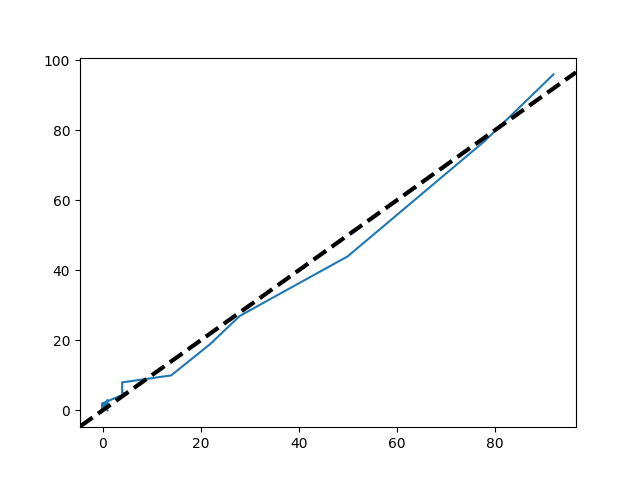
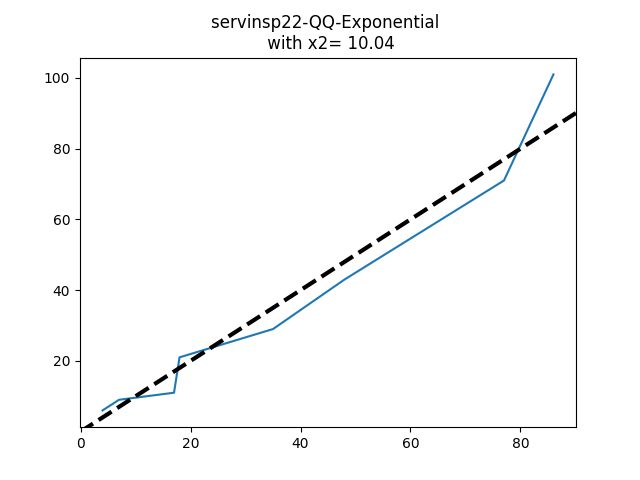
autocorrelation+cleanup

diff --git a/modeling.py b/modeling.py
@@ -43,13 +43,18 @@ def calculateX2(observed,expeted,size):
         x2 = x2 + pow((observed[i]-expeted[i]),2)/expeted[i];
     return round(x2,2);
 
-a=71;
-c=17;
+a=5 ;
+c=7;
 m=pow(2,8)+1;
 digits=[0]*600000;
-digits[0]=7;
+digits[0]=31;
 counter=0;
-
+# a=5 ;
+# c=7;
+# m=pow(2,8)+1;
+# digits=[0]*600000;
+# digits[0]=31;
+# counter=0;
 def generateRandomNumbers():
 
     global a,c,m,digits,counter;
@@ -60,39 +65,70 @@ def generateRandomNumbers():
         generatedNums[i-1]=digits[counter*300+i]
       
     for i in range(0,300):
-        generatedNums[i] = round(generatedNums[i]/m,6);
+        generatedNums[i] = round(generatedNums[i]/m,8);
     counter = counter + 1;
 
     return generatedNums;
 
-def testForUnifomity(sample):
+def testForUnifomity(sample,bins):
     # test for 30 bins
-    observedBins=30*[0];
+    observedBins=bins*[0];
     minn=min(sample);
     maxx=max(sample);
-    width=(maxx-minn)/30;
-    for i in range (0,30):
+    width=(maxx-minn)/bins;
+    for i in range (0,bins):
         for j in range(0,300):
             if sample[j] >= i * width + minn and sample[j]< (i+1) * width + minn:
                 observedBins[i] = observedBins[i] + 1;
     
-    expectedBins=30*[10];
-    observedBins[29] = observedBins[29] + 300-sum(observedBins);
-    print('Generated R:'+str(observedBins)+'\nExpected R:'+str(expectedBins));
-    print('For 30 Bins X2 of generated numbers(R), compare to uniform distribution is '+str(calculateX2(observedBins, expectedBins,30)));
+    expectedBins=bins*[300/bins];
+    observedBins[bins-1] = observedBins[bins-1] + 300-sum(observedBins);
+    print('For '+str(bins)+' Bins');
+    print('Generated R:\n'+str(observedBins)+'\nExpected R:\n'+str(expectedBins));
+    print('X2 of generated numbers, compare to uniform distribution is '+str(calculateX2(observedBins, expectedBins,bins)));
+    print('------------');
 
     return observedBins;
+
+def testAutoCorrelation(sample, m,i):
+    averagePhi=0;
+    k=0;
+    while (k+1)*m < 300:
+        averagePhi = averagePhi + sample[k*m+i]*sample[(k+1)*m+i];
+        k = k + 1;
+        
+    averagePhi = averagePhi / (1 + k) - 0.25;
+    sigmaPhi=sqrt(13*k+7).real/(12*(k+1));
+    print('testAutoCorrelation for (m= '+str(m)+',i='+str(i)+'):  '+ str(round(averagePhi/sigmaPhi,4)));
 
 def plotQQExp(data,name):
 
     generatedSample= [0]*300;
     landa= 1/np.mean(data);
     randomNums = generateRandomNumbers();
-    testForUnifomity(randomNums);
+    print(name+'\n---------------------------------');
+    print('Generated Random Numbers:');
+    print(randomNums);
+    print('------------');
+    print('Testing for Uniformity:');
+    print('------------');
+    testForUnifomity(randomNums,10);
+    testForUnifomity(randomNums,30);
+    testForUnifomity(randomNums,50);
+    print('Testing for AutoCorrelation:');
+    print('------------');
+    testAutoCorrelation(randomNums,1,0);
+    testAutoCorrelation(randomNums,5,0);
+    testAutoCorrelation(randomNums,10,0);
+    print('------------');
 
     for i in range(0,300):
         generatedSample[i] = (-1/landa)* np.log(1-randomNums[i]);
 
+    print('Generatated Exponential Distribution:');
+    print('------------');
+    print(list(np.around(np.array(generatedSample),2)));
+    print('------------');
     # get min and max
     maxSample=0;
     for i in range(0,300):
@@ -132,11 +168,10 @@ def plotQQExp(data,name):
     sampleBin[size-1] = 300 - sum(sampleBin);
     
     x2 = calculateX2(sampleBin, distBin,size);
-    print('Entity\t\t',name);
-    print('size\t\t',len(sampleBin));
-    print('observed\t',sampleBin);
-    print('expectred\t',distBin);
-    print('X2\t\t', x2);
+    print('size of bin\n',len(sampleBin));
+    print('observed Bin\n',sampleBin);
+    print('expectred Bin\n',distBin);
+    print('X2 calcualted\n', x2);
     print('------------------------------------------');
     
 
